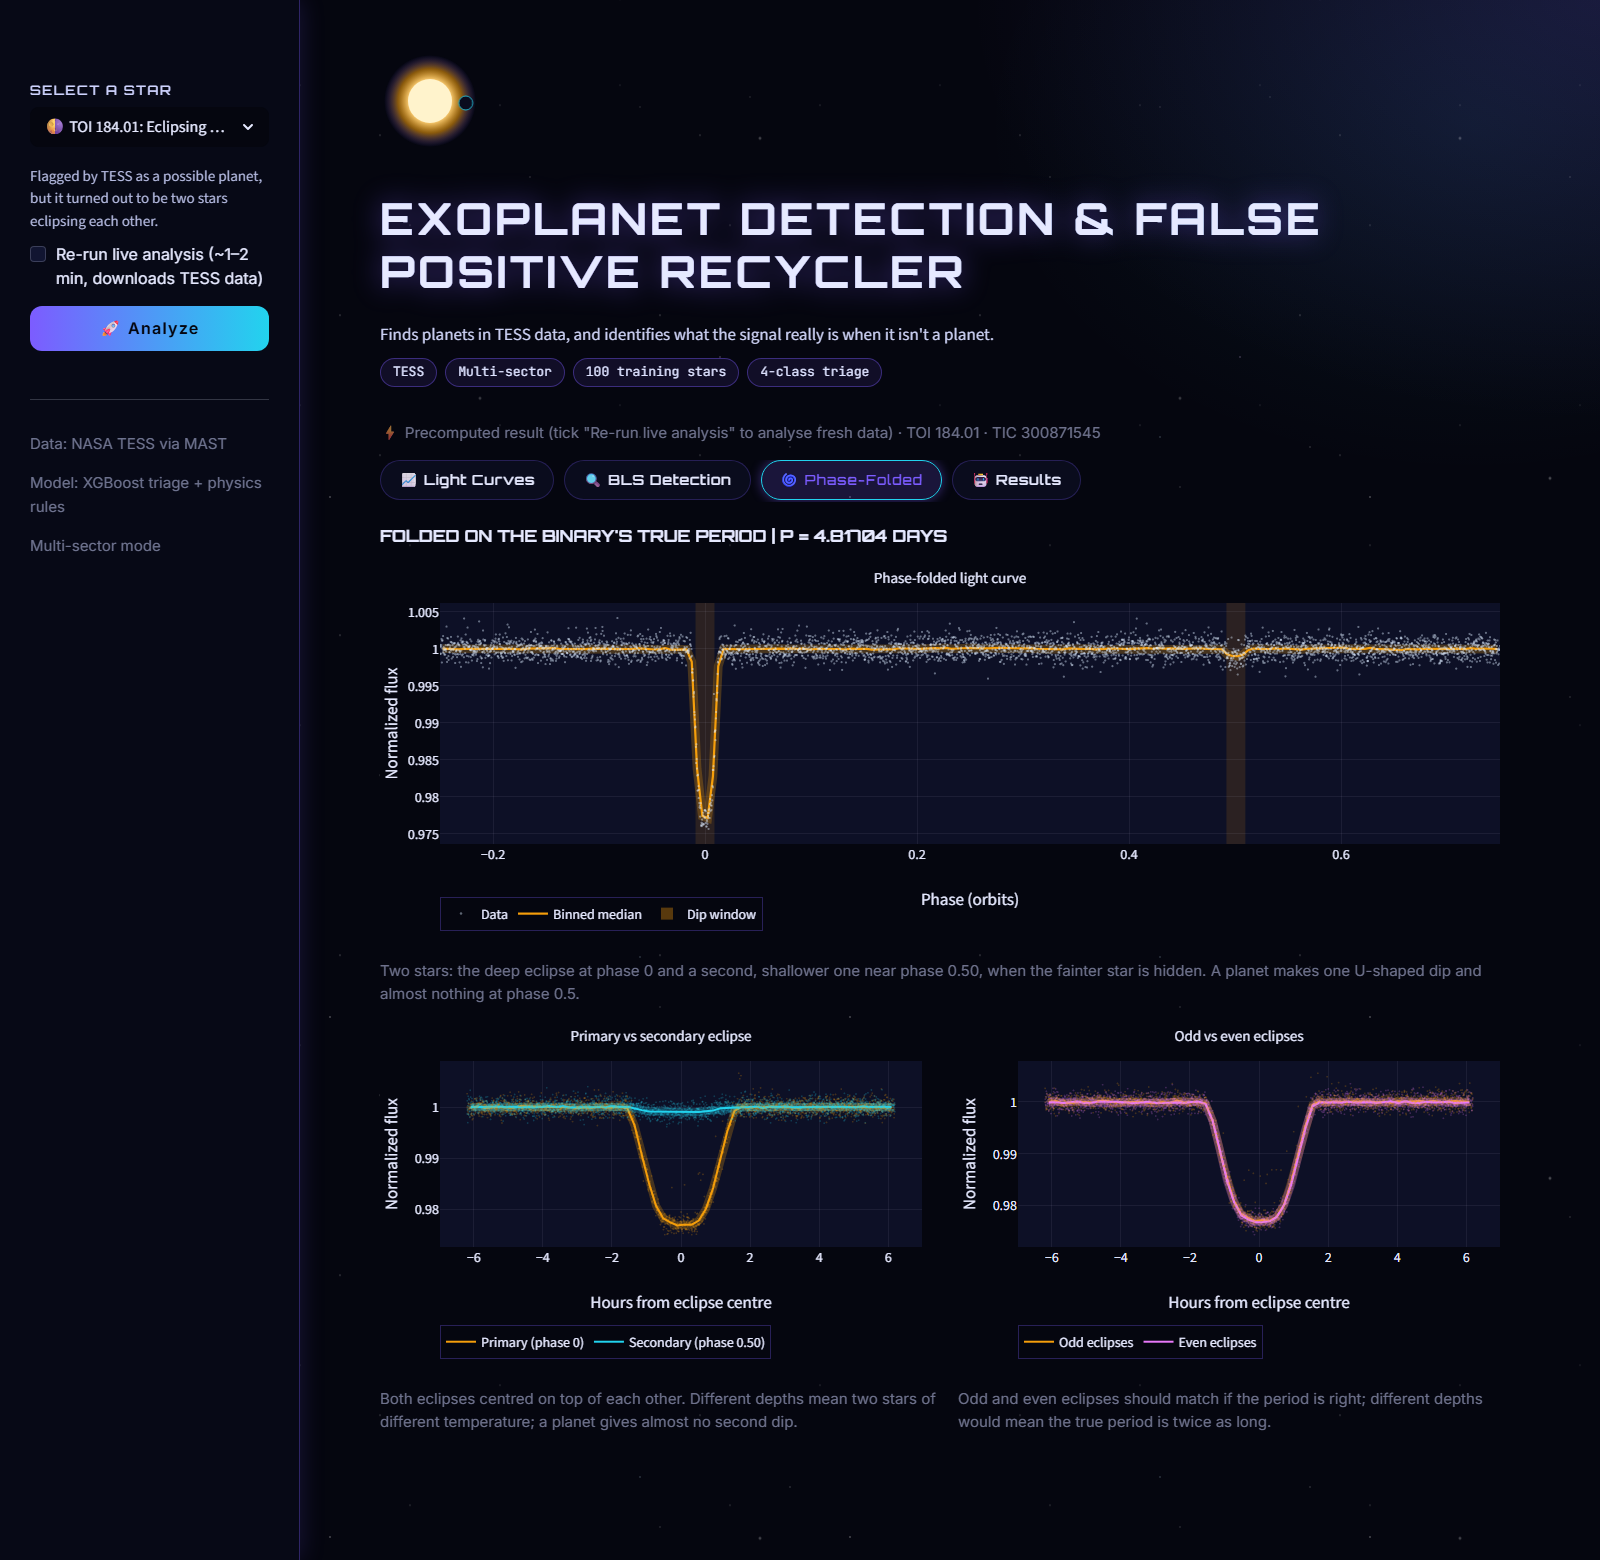
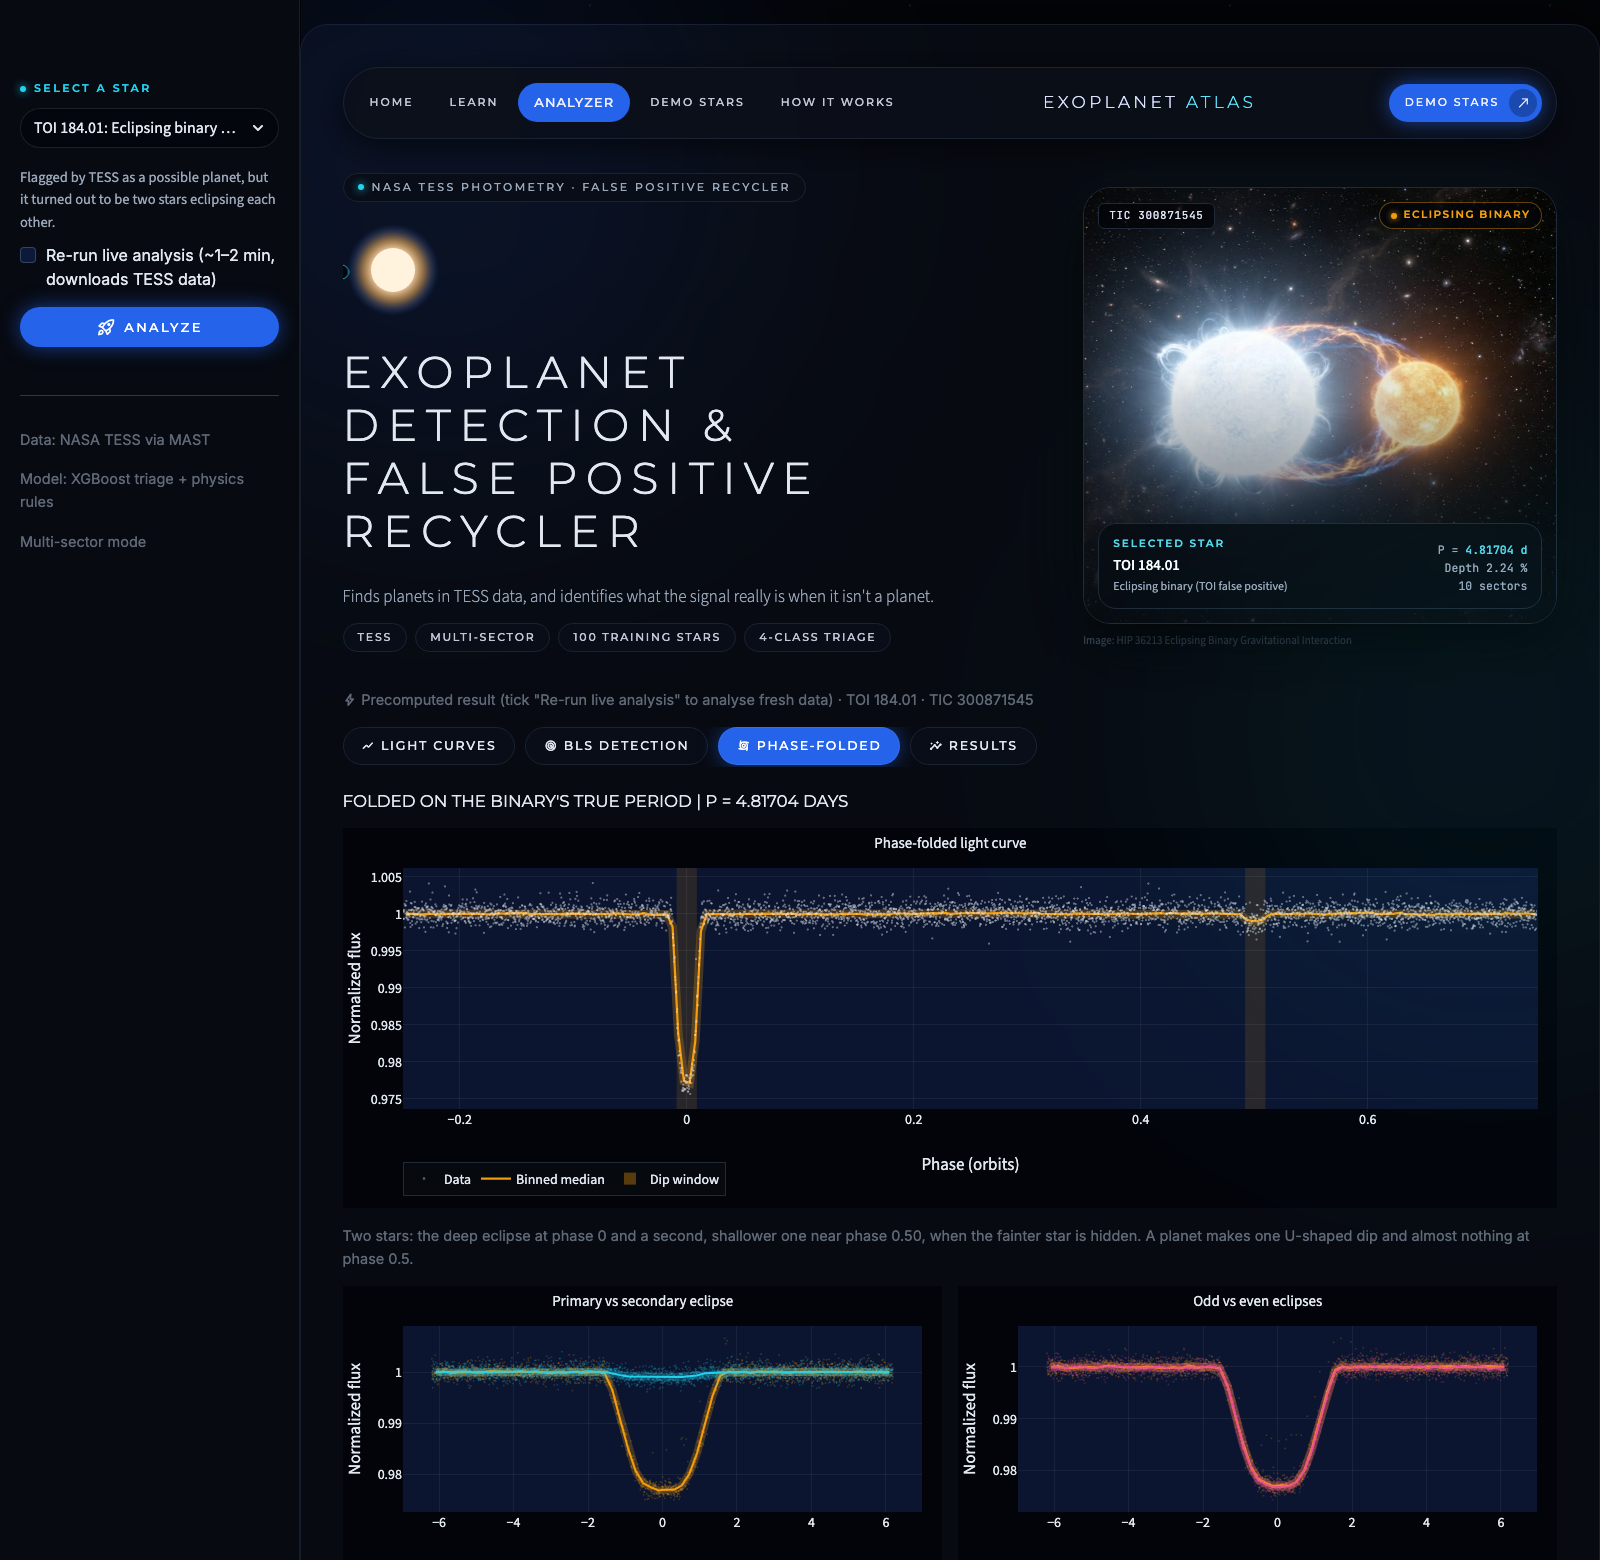
Update screenshots for the new interface
take_screenshots.py now captures the four Stitch pages (Home, Learn,
Demo Stars, How It Works) as well as the Analyzer and its tabs; all
screenshots are retaken from the current app.

diff --git a/scripts/take_screenshots.py b/scripts/take_screenshots.py
@@ -4,7 +4,8 @@
     python scripts/take_screenshots.py [--port 8599]
 
 Starts the app headless, waits until it is healthy, opens it in Chromium at
-1600x1000 and saves docs/screenshots/{lightcurves,bls,results,phasefold}.png
+1600x1000 and saves docs/screenshots/: the four pages (home, learn, demo_stars,
+how_it_works) and the Analyzer (analyzer, lightcurves, bls, phasefold, results)
 from the precomputed examples (no network needed for the analysis). The server
 and the browser are always shut down at the end.
 """
@@ -61,6 +62,22 @@ def analyze(page, star: str) -> None:
     page.locator('button[role="tab"]', has_text="Light Curves").wait_for(timeout=60_000)
 
 
+def stitch_page(page, url: str, name: str, height: int) -> None:
+    """A Stitch page (Home / Learn / Demo Stars / How It Works) in its full-width frame."""
+    page.set_viewport_size({"width": VIEWPORT["width"], "height": height})
+    page.goto(f"{url}/?page={name}")
+    page.wait_for_load_state("networkidle")
+    page.locator("iframe").first.wait_for(timeout=60_000)
+    frame = page.locator("iframe").first.content_frame
+    frame.locator("main").wait_for(timeout=60_000)
+    # Show every section at once (the scroll-reveal animation would hide lower ones).
+    frame.locator("body").evaluate(
+        "b => b.querySelectorAll('.ea-reveal').forEach(e => e.classList.add('ea-in'))")
+    page.wait_for_timeout(3500)
+    page.screenshot(path=OUT / f"{name}.png")
+    page.set_viewport_size(VIEWPORT)
+
+
 def open_tab(page, name: str, charts: int = 1) -> None:
     page.locator('button[role="tab"]', has_text=name).click()
     settle(page, charts)
@@ -86,12 +103,19 @@ def main() -> None:
             browser = pw.chromium.launch()
             try:
                 page = browser.new_page(viewport=VIEWPORT, device_scale_factor=1)
-                page.goto(url)
+                stitch_page(page, url, "home", 1000)
+                stitch_page(page, url, "learn", 1000)
+                stitch_page(page, url, "demo_stars", 1500)
+                stitch_page(page, url, "how_it_works", 1600)
+
+                page.goto(f"{url}/?page=analyzer")
                 page.wait_for_load_state("networkidle")
                 page.add_style_tag(content=HIDE_CHROME)
                 page.locator('[data-testid="stSidebar"] [data-testid="stSelectbox"]').wait_for()
 
                 analyze(page, "HD 209458 b")
+                page.wait_for_timeout(2500)
+                page.screenshot(path=OUT / "analyzer.png")
                 open_tab(page, "Light Curves", charts=2)
                 page.screenshot(path=OUT / "lightcurves.png")
                 open_tab(page, "BLS Detection", charts=1)
@@ -117,7 +141,8 @@ def main() -> None:
             server.wait(timeout=15)
         except subprocess.TimeoutExpired:
             server.kill()
-    for name in ("lightcurves", "bls", "results", "phasefold"):
+    for name in ("home", "learn", "demo_stars", "how_it_works", "analyzer", "lightcurves",
+                 "bls", "results", "phasefold"):
         print(OUT / f"{name}.png")
 
 
